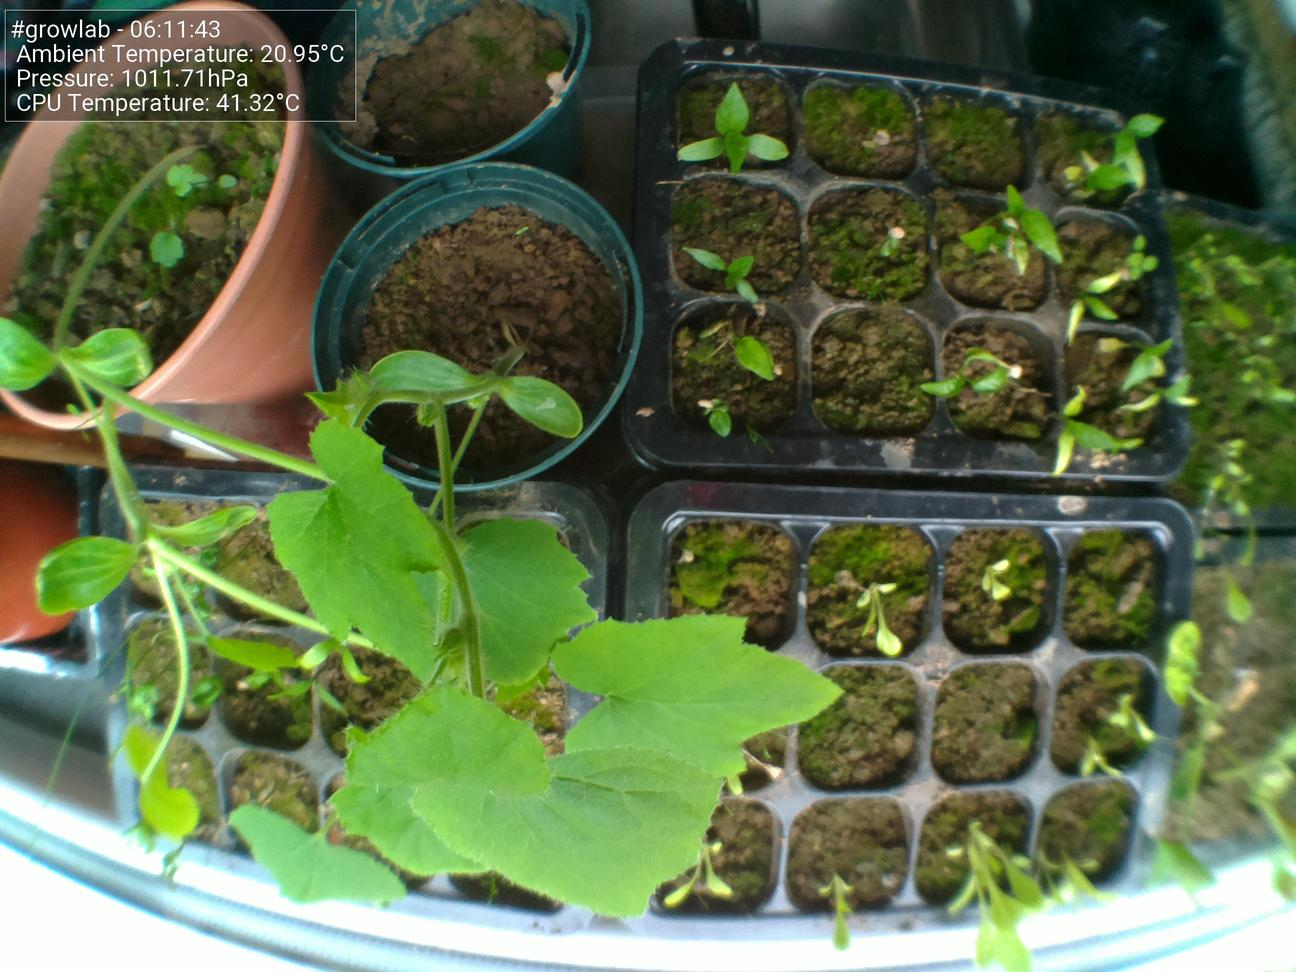
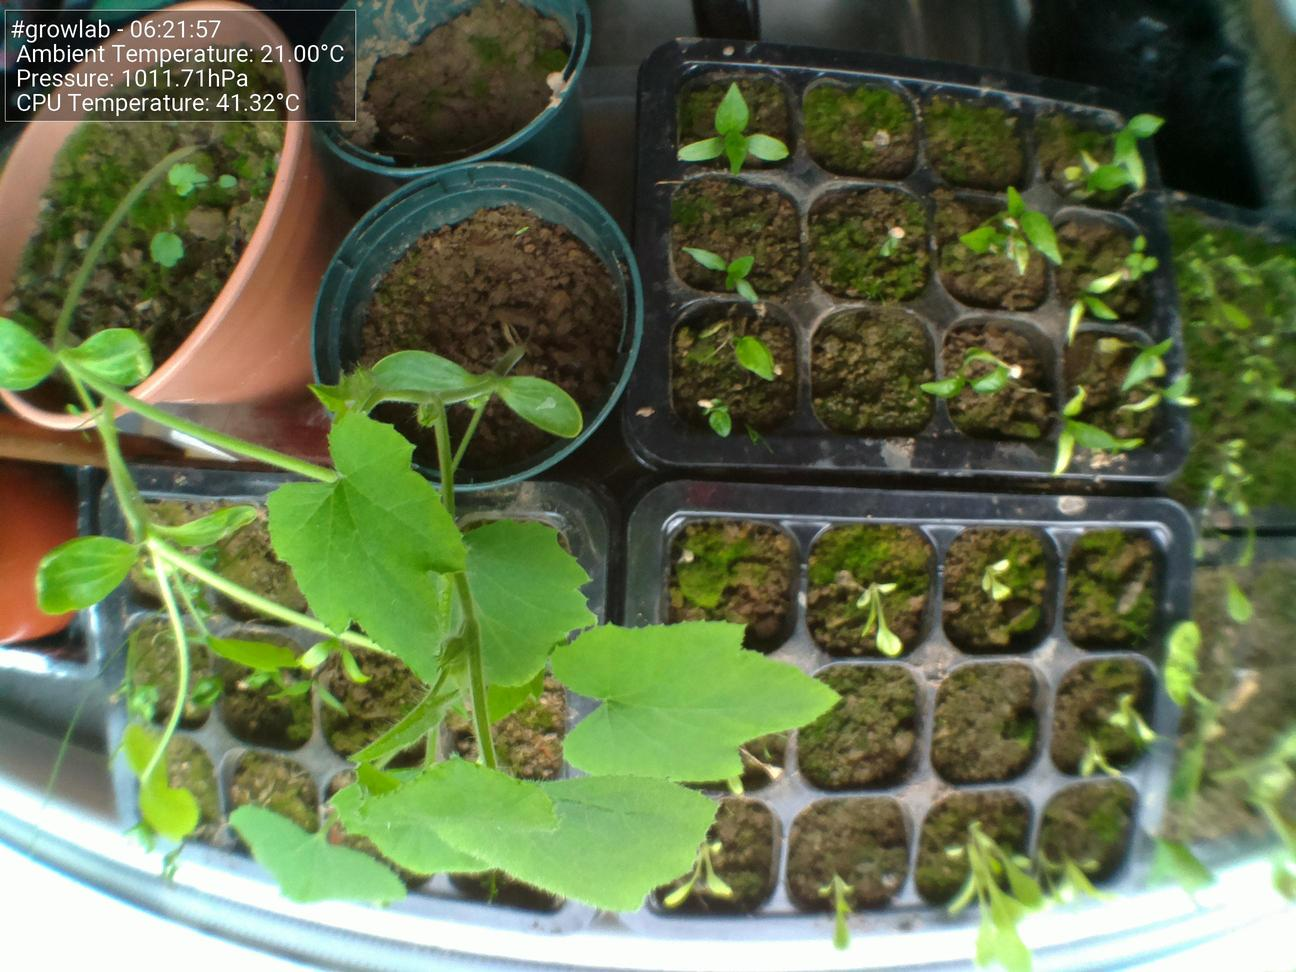
Update images at Sat 21 May 06:22:03 BST 2022

diff --git a/docs/index.html b/docs/index.html
@@ -44,7 +44,7 @@
                         <tbody>
                             <tr>
                                 <td>Time</td>
-                                <td>06:11:43</td>
+                                <td>06:21:57</td>
                             </tr>
                             <tr>
                                 <td>CPU Temp</td>
@@ -52,7 +52,7 @@
                             </tr>
                             <tr>
                                 <td>Ambient Temperature</td>
-                                <td>20.95°C</td>
+                                <td>21.00°C</td>
                             </tr>
                             <tr>
                                 <td>Humidity</td>
@@ -68,7 +68,7 @@
 
                 <h5>Latest image</h5>
                 <div style="width: 85%;">
-                            <img class="figure-img img-fluid rounded" src="./preview.jpg?uid=1653109910.0729396">
+                            <img class="figure-img img-fluid rounded" src="./preview.jpg?uid=1653110522.9388826">
                 </div>
             </div>
         </div>
